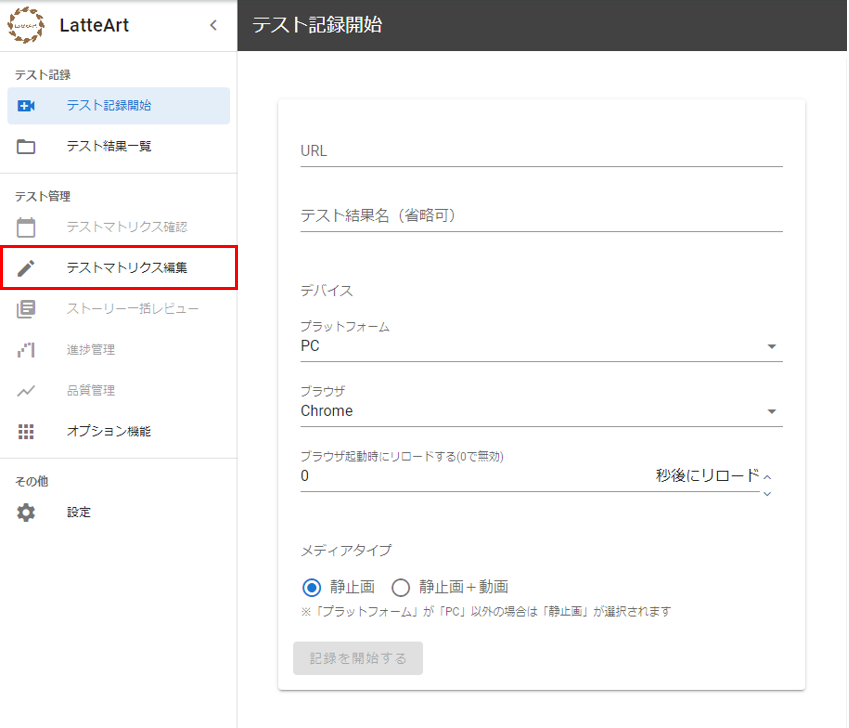
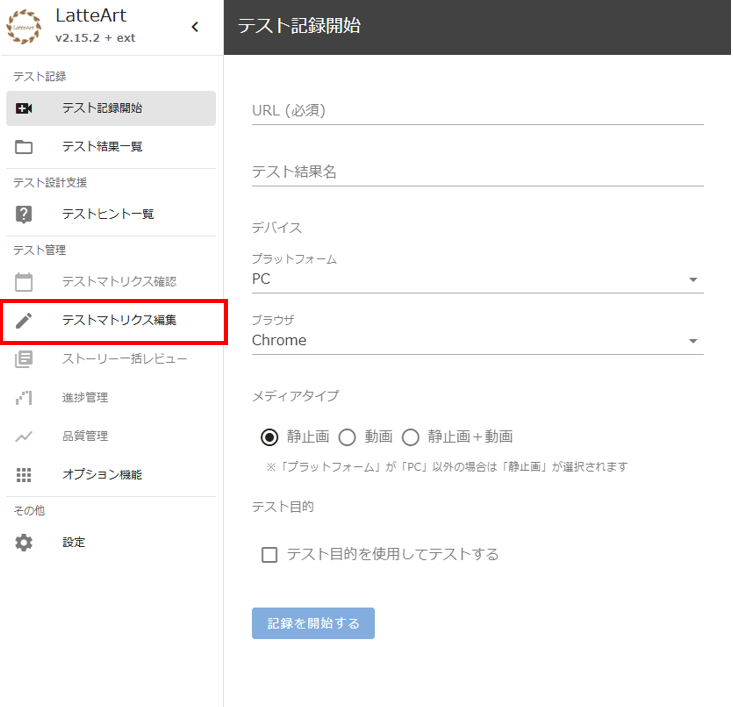
fix #1537 fix manual (#1548)

diff --git a/docs/manual/capture/manual-capture.md b/docs/manual/capture/manual-capture.md
@@ -21,7 +21,7 @@
     - [メニューボタン](#メニューボタン)
       - [テスト結果のエクスポート](#テスト結果のエクスポート)
       - [テストスクリプト生成](#テストスクリプト生成)
-      - [テスト結果のリプレイ/リプレイの中止](#テスト結果のリプレイ・中止)
+      - [テスト結果のリプレイ/リプレイの中止](#テスト結果のリプレイ中止)
       - [スクリーンショット出力](#スクリーンショット出力)
       - [テスト結果の比較](#テスト結果の比較)
       - [テスト結果の削除](#テスト結果の削除)
@@ -34,7 +34,7 @@
     - [テストヒント検索ボタン](#テストヒント検索ボタン)
     - [経過時間](#経過時間)
   - [スクリーンショット出力ボタン](#スクリーンショット出力ボタン)
-  - [モデル・カバレッジ更新ボタン](#モデル・カバレッジ更新ボタン)
+  - [モデル・カバレッジ更新ボタン](#モデルカバレッジ更新ボタン)
   - [シーケンス図モデル](#シーケンス図モデル)
   - [画面遷移図モデル](#画面遷移図モデル)
   - [画面要素カバレッジ](#画面要素カバレッジ)
@@ -98,9 +98,12 @@ USB で接続されているデバイスを選択することができます。
 
 - 静止画  
   テスト画面を静止画で記録します。
+- 動画  
+  テスト画面を動画で記録します。
 - 静止画＋動画  
-  テスト画面を静止画と動画で記録します。  
-  詳細は「[動画記録](../common/capture-video.md)」をご参照ください。
+  テスト画面を静止画と動画で記録します。
+
+:bulb:動画に関する詳細は「[動画記録](../common/capture-video.md)」をご参照ください。
 
 ## テスト目的
 
@@ -189,7 +192,8 @@ USB で接続されているデバイスを選択することができます。
 - \{テスト結果名}\_YYYYDDMM_HHmmss.zip
 
 ```
-  - スクリーンショット
+  - スクリーンショット（静止画を記録している場合）
+  - 動画（動画を記録している場合）
   - コメント情報(comments.json)
   - テスト結果情報(log.json)
   - 動的変更情報(mutations.json)
@@ -202,7 +206,7 @@ USB で接続されているデバイスを選択することができます。
 
 #### テスト結果のリプレイ・中止
 
-メニューボタンの一覧から押下するとブラウザが立ち上がり、操作のタイミング含め、記録された操作がそのまま自動的に繰り返されます。
+メニューボタンの一覧から押下するとブラウザが立ち上がり、記録された操作が自動的に繰り返されます。操作の待ち時間はリプレイ時の設定によって変更がすることができます。
 リプレイ開始後にメニューボタンの一覧から「リプレイの中止」を押下するとブラウザが閉じ、リプレイが中止されます。
 
 また、リプレイ元のテスト結果とリプレイしたテスト結果を比較することもできます。  
@@ -542,7 +546,8 @@ USB で接続されているデバイスを選択することができます。
 - \{テスト結果名}\_YYYYDDMM_HHmmss.zip
 
 ```
-  - スクリーンショット
+  - スクリーンショット（静止画を記録している場合）
+  - 動画（動画を記録している場合）
   - コメント情報(comments.json)
   - テスト結果情報(log.json)
   - 動的変更情報(mutations.json)

diff --git a/docs/manual/common/capture-video.md b/docs/manual/common/capture-video.md
@@ -1,6 +1,6 @@
 # テストの録画
 
-テスト記録開始時に「メディアタイプ」で「静止画＋動画」を選択すると、テスト記録時にテスト中の画面を**動画** で記録するようになります。
+テスト記録開始時に「メディアタイプ」で「動画」または「静止画＋動画」を選択すると、テスト記録時にテスト中の画面を**動画** で記録するようになります。
 
 :warning: 記録された動画は以下の機能では利用できません。
 
@@ -23,6 +23,6 @@
 <img src="./images/media-type.png"/>
 
 テスト記録開始画面の「メディアタイプ」から設定ができます。  
-メディアタイプを「静止画＋動画」に設定することでテスト画面を動画で記録することができます。
+メディアタイプを「動画」または「静止画＋動画」に設定することでテスト画面を動画で記録することができます。
 
 :warning:記録中に設定を変えることはできません。記録終了後に設定を変更し、テストを再開することは可能です。

diff --git a/README_ja.md b/README_ja.md
@@ -33,7 +33,6 @@ LatteArt は大きく分けて 2 つ機能から構成されています。
 - [LatteArt 導入手順書](./docs/startup/pc.md): LatteArt のインストール・起動方法
 - [LatteArt チュートリアル（操作記録編）](./docs/tutorial/capture/tutorial-capture.md) : LatteArt を用いたテストの記録方法
 - [LatteArt チュートリアル（テスト実践編）](./docs/tutorial/management/tutorial-management.md) : LatteArt を用いたテストの考え方、およびテストの実践
-- [LatteArt チュートリアル（Extension開発）](./docs/tutorial//extension/tutorial-extension.md) : LatteArt の拡張機能開発の実践
 - [テスト記録 操作説明書](./docs/manual/capture/manual-capture.md): テスト記録の各機能の詳細
 - [テスト設計支援 操作説明書](./docs/manual/test-design-support/manual-test-design-support.md): テスト設計支援の各機能の詳細
 - [テスト管理 操作説明書](./docs/manual/management/manual-management.md): テスト管理の各機能の詳細

diff --git a/docs/tutorial/capture/tutorial-capture.md b/docs/tutorial/capture/tutorial-capture.md
@@ -48,7 +48,7 @@ LatteArt: http://127.0.0.1:3000?capture=http://127.0.0.1:3001&repository=http://
     - 本チュートリアルでは、LatteArt の画面にテストを行いましょう。`http://127.0.0.1:3000`を入力してください。
   - テスト結果に名前を付けたい場合は「URL 欄」の下側の「テスト結果名欄」に入力してください。
     - テスト結果名は省略可です。その場合、自動的にテスト結果名`session_YYYYMMDD_HHmmss`が付与されます。
-  - メディアタイプを静止画または静止画＋動画いずれかを選択してください。
+  - メディアタイプを静止画、動画、静止画＋動画のいずれかを選択してください。
     - 本チュートリアルでは、静止画を選択してください。
   - テスト目的を使用するか設定してください。
     - 本チュートリアルでは、チェックボックスを ON にし、最初のテスト目的を入力してください。

diff --git a/docs/manual/common/test-result-comparison.md b/docs/manual/common/test-result-comparison.md
@@ -23,7 +23,8 @@
 
 ダイアログ上で「リプレイ結果を保存する」チェックボックスを ON にし、「OK」ボタンからリプレイを実行すると、リプレイ時のテスト結果を保存することができます。
 
-:bulb: 保存するテスト結果は任意の名前を付与することができます。
+:bulb: 保存するテスト結果は任意の名前を付与することができます。  
+:bulb: テスト結果を保存する際、画面キャプチャを取得するかどうか選択することができます。
 
 また、「リプレイ元のテスト結果「xxxxxx」と比較する」チェックボックスを ON にすることで、保存したテスト結果をリプレイ元のテスト結果と差分比較することができます。
 

diff --git a/docs/manual/management/manual-management.md b/docs/manual/management/manual-management.md
@@ -14,7 +14,7 @@
 - [テストマトリクス編集](#テストマトリクス編集)
   - [テストマトリクス追加ボタン](#テストマトリクス追加ボタン)
   - [テストマトリクス編集欄](#テストマトリクス編集欄)
-  - [グループ・テスト対象編集欄](#グループ・テスト対象編集欄)
+  - [グループ・テスト対象編集欄](#グループテスト対象編集欄)
 - [ストーリー一括レビュー](#ストーリー一括レビュー)
   - [レビューボタン](#レビューボタン)
 - [進捗管理](#進捗管理)

diff --git a/docs/startup/pc.md b/docs/startup/pc.md
@@ -97,7 +97,7 @@ LatteArt を用いたテストの考え方、および実践については 「[
 
   ```jsonc
   {
-    "browser": "chrome"
+    "browser": "chrome",
     // ...
   }
   ```
@@ -117,12 +117,12 @@ LatteArt を用いたテストの考え方、および実践については 「[
         // ...
         "env": { "port": "13002" },
         "http": {
-          "url": "http://localhost:13002"
+          "url": "http://localhost:13002",
           // ...
-        }
-      }
+        },
+      },
       // ...
-    ]
+    ],
   }
   ```
 

diff --git a/docs/contributing_ja.md b/docs/contributing_ja.md
@@ -181,3 +181,9 @@ dist/
 ## コーディングスタイル
 
 - 静的解析によるチェックを通るようにコーディングしてください。
+
+## 拡張機能の開発
+
+拡張機能を作成することで、独自の機能を追加することができます。
+
+- [LatteArt チュートリアル（Extension開発）](./tutorial/extension/tutorial-extension.md) : LatteArt の拡張機能開発の実践

diff --git a/docs/contributing.md b/docs/contributing.md
@@ -175,3 +175,7 @@ dist/
 ## Coding Style
 
 - Your code must pass the check by `eslint`.
+
+## Extension Development
+
+By creating an extension, you can add your own features.
